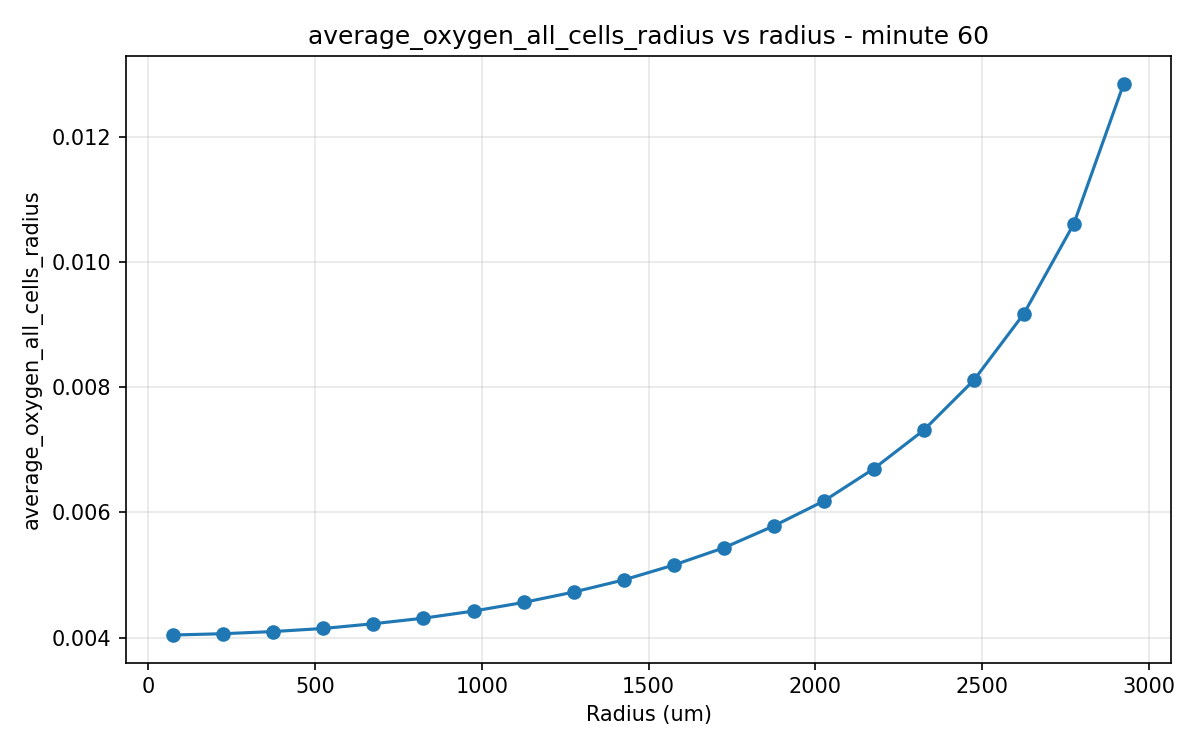
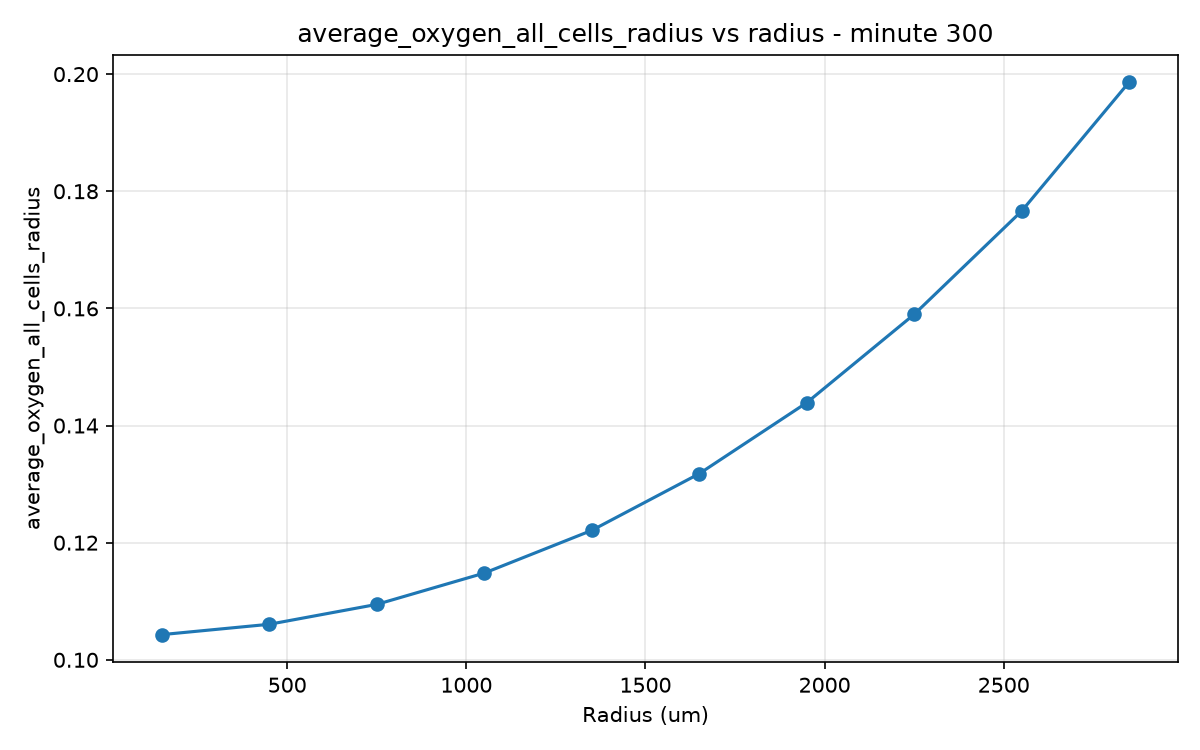
solve bug of exygen increasing with the number of newborn cells

diff --git a/abm_calibration/optimize.py b/abm_calibration/optimize.py
@@ -32,7 +32,7 @@ import pandas as pd
 EXPERIMENT_ID = 1
 SEED = 42
 # You can set the number of trials to 0 to skip the optimization and just load the best result from the database
-NUMBER_OF_TRIALS = 8
+NUMBER_OF_TRIALS = 200000
 # Number of Monte Carlo simulations to run for each trial. Use one for an aproximation of the error with a single montecarlo run
 NUMBER_MONTE_CARLO = 1
 # BioDynaMo directory to execute the comand source thisbdm.sh, you can change it to your own path
@@ -55,20 +55,38 @@ EXPERIMENT_DIR.mkdir(parents=True, exist_ok=True)
 # Function to run the ABM with the given parameters
 def run_ABM(params, seed):
     # Change this: parameter to be optimized in the ABM simulation
-    initial_oxygen_level = params["initial_oxygen_level"]
-    default_oxygen_consumption_tumor_cell = params[
-        "default_oxygen_consumption_tumor_cell"
+    oxygen_reference_level = params[
+        "oxygen_reference_level"
+    ]
+    bounded_space_length = params[
+        "bounded_space_length"
     ]
 
     # Change this configuration for the ABM run
     config = {
         "seed": seed,
         "output_performance_statistics": False,
-        "total_minutes_to_simulate": 1440,
-        "initial_spherical_tumor_radius": 40.0,
-        "treatment": {"0": 50},
-        "initial_oxygen_level": initial_oxygen_level,
-        "default_oxygen_consumption_tumor_cell": default_oxygen_consumption_tumor_cell,
+        "total_minutes_to_simulate": 60,
+        "output_csv_interval": 600,
+        "bounded_space_length": bounded_space_length,
+        "tumor_shape": "cylinder",
+        "output_information_dependent_on_radius": True,
+        "cylindrical_tumor_radius": 3000.0,
+        "max_radius_analysis_csv_dependent_on_radius": 3000.0,
+        "num_radius_intervals": 20,
+        "cylindrical_tumor_height": 100.0,
+        "initial_number_of_cylindrical_tumor_cells": 2800,
+        "oncoprotein_standard_deviation": 0.0,
+        "lateral_oxygen_production_min_z": -75.0,
+        "lateral_oxygen_production_max_z": 75.0,
+        "initial_oxygen_level": 0.0,
+        "oxygen_reference_level": oxygen_reference_level,
+        "diffusion_coefficient_oxygen": 180000.0,
+        "decay_constant_oxygen": 0,
+        "treatment": {
+            "0": 0
+        },
+        "default_oxygen_consumption_tumor_cell": 0
     }
 
     # Save the config parameters for the run to the params.json file
@@ -81,50 +99,79 @@ def run_ABM(params, seed):
 
 # Change This: Function to compute the error between the ABM simulation results and the experimental data
 def compute_error():
-    target = Path(__file__).resolve().parent / "target_data" / "final_data.csv"
-    sim_dir = Path(__file__).resolve().parent.parent / "output" / "final_data.csv"
-
-    if not target.exists():
-        logging.error("Missing target CSV: %s", target)
-        return float("inf")
+    sim_dir = Path(__file__).resolve().parent.parent / "output" / "data_dependent_on_radius_tumor.csv"
 
     if not sim_dir.exists():
         logging.error("Missing simulation CSV: %s", sim_dir)
         return float("inf")
 
-    df_t = pd.read_csv(target, usecols=["total_minutes", "average_oxygen_cancer_cells"])
     df_s = pd.read_csv(
-        sim_dir, usecols=["total_minutes", "average_oxygen_cancer_cells"]
+        sim_dir,
+        usecols=[
+            "total_minutes",
+            "average_oxygen_all_cells_radius_2850_to_3000",
+            "average_oxygen_all_cells_radius_0_to_150",
+        ],
     )
 
-    # Merge the target and simulation dataframes on the "total_minutes" column to align the data for error computation
-    merged = pd.merge(
-        df_t, df_s, on="total_minutes", how="inner", suffixes=("_t", "_s")
-    )
+    # See the value at the minute 60 for the average oxygen level in the simulation data
+    row = df_s[df_s["total_minutes"] == 60].iloc[0]
+    value_border = row["average_oxygen_all_cells_radius_2850_to_3000"]
+    value_border_in_mol_m3 = value_border / 585  # Convert from mmHg to mol/m3
+    target_value_border = 0.2
+    value_center = row["average_oxygen_all_cells_radius_0_to_150"]
+    value_center_in_mol_m3 = value_center / 585  # Convert from mmHg to mol/m3
+    target_value_center = 0.9
 
-    if merged.empty:
-        logging.error("No common minutes between target and simulation")
-        return float("inf")
-
-    # Compute the mean squared error (MSE) between the average oxygen levels in the target and simulation data
-    mse = (
-        (
-            merged["average_oxygen_cancer_cells_s"]
-            - merged["average_oxygen_cancer_cells_t"]
-        )
-        ** 2
-    ).mean()
+   # MSE
+    mse = ((value_border_in_mol_m3 - target_value_border) ** 2 + (value_center_in_mol_m3 - target_value_center) ** 2) / 2 
+    
     return float(mse)
+
+
+    # dafault 
+    # target = Path(__file__).resolve().parent / "target_data" / "final_data.csv"
+    # sim_dir = Path(__file__).resolve().parent.parent / "output" / "final_data.csv"
+
+    # if not target.exists():
+    #     logging.error("Missing target CSV: %s", target)
+    #     return float("inf")
+
+    # if not sim_dir.exists():
+    #     logging.error("Missing simulation CSV: %s", sim_dir)
+    #     return float("inf")
+
+    # df_t = pd.read_csv(target, usecols=["total_minutes", "average_oxygen_cancer_cells"])
+    # df_s = pd.read_csv(
+    #     sim_dir, usecols=["total_minutes", "average_oxygen_cancer_cells"]
+    # )
+
+    # # Merge the target and simulation dataframes on the "total_minutes" column to align the data for error computation
+    # merged = pd.merge(
+    #     df_t, df_s, on="total_minutes", how="inner", suffixes=("_t", "_s")
+    # )
+
+    # if merged.empty:
+    #     logging.error("No common minutes between target and simulation")
+    #     return float("inf")
+
+    # # Compute the mean squared error (MSE) between the average oxygen levels in the target and simulation data
+    # mse = (
+    #     (
+    #         merged["average_oxygen_cancer_cells_s"]
+    #         - merged["average_oxygen_cancer_cells_t"]
+    #     )
+    #     ** 2
+    # ).mean()
+    # return float(mse)
 
 
 # Objective function for the Optuna optimization process
 def objective(trial):
     # Change this: Define the parameters to be optimized and their ranges
     params = {
-        "initial_oxygen_level": trial.suggest_float("initial_oxygen_level", 30, 40),
-        "default_oxygen_consumption_tumor_cell": trial.suggest_float(
-            "default_oxygen_consumption_tumor_cell", 7, 14
-        ),
+        "oxygen_reference_level": trial.suggest_float("oxygen_reference_level", 1200.0, 1400.0, step=10.0),
+        "bounded_space_length": trial.suggest_float("bounded_space_length", 6500.0, 25000.0, step=100.0),        
     }
 
     logging.info(f"Trial {trial.number} | params={params}")
@@ -189,6 +236,13 @@ if __name__ == "__main__":
 
         df = study.trials_dataframe()
         df.to_csv(EXPERIMENT_DIR / "optuna_results.csv", index=False, mode="w")
+        # for t in study.trials:
+        #     print(
+        #         f"Trial {t.number:2d} | "
+        #         f"value={t.value:.6f} | "
+        #         f"params={t.params} | "
+        #         f"state={t.state}"
+        #     )
 
     finally:
         # Restore the original content of the bdm.toml and params.json files always, even if an error occurs during the optimization process

diff --git a/src/params/hyperparams.cc b/src/params/hyperparams.cc
@@ -136,8 +136,8 @@ void SimParam::LoadParams(const std::string& filename) {
 
   load_double("lateral_oxygen_production_min_z",
               lateral_oxygen_production_min_z);
-  load_double("lateral_oxygen_production_max_z",
-              lateral_oxygen_production_max_z);
+
+  load_bool("diffuse_on_z_axis", diffuse_on_z_axis);
 
   load_double("diffusion_coefficient_oxygen", diffusion_coefficient_oxygen);
   load_double("decay_constant_oxygen", decay_constant_oxygen);
@@ -147,6 +147,19 @@ void SimParam::LoadParams(const std::string& filename) {
               decay_constant_immunostimulatory_factor);
   load_double("oxygen_reference_level", oxygen_reference_level);
   load_double("initial_oxygen_level", initial_oxygen_level);
+
+  if (jfile.contains("diffuse_on_z_axis")) {
+    diffuse_on_z_axis = jfile["diffuse_on_z_axis"].get<bool>();
+  } else {
+    // if the tumor shape is cylindrical it should be set to false, otherwise it should be set to true
+    if (tumor_shape == "cylinder") {
+      // NOLINTNEXTLINE(cppcoreguidelines-avoid-magic-numbers,readability-magic-numbers)
+      diffuse_on_z_axis = false;
+    } else {
+      // NOLINTNEXTLINE(cppcoreguidelines-avoid-magic-numbers,readability-magic-numbers)
+      diffuse_on_z_axis = true;
+    }
+  }
 
   load_double("cell_repulsion_between_tumor_tumor",
               cell_repulsion_between_tumor_tumor);
@@ -410,6 +423,8 @@ void SimParam::PrintParams() const {
             << lateral_oxygen_production_min_z << "\n";
   std::cout << "Maximum z-coordinate for lateral oxygen production (micrometers): "
             << lateral_oxygen_production_max_z << "\n";
+  std::cout << "Whether to diffuse Chemicals on the z-axis: "
+            << (diffuse_on_z_axis ? "true" : "false") << "\n";
   std::cout << "Diffusion coefficient of oxygen (μm²/min): "
             << diffusion_coefficient_oxygen << "\n";
   std::cout << "Decay constant of oxygen (min⁻¹): " << decay_constant_oxygen

diff --git a/src/utils/utils_aux.cc b/src/utils/utils_aux.cc
@@ -169,16 +169,17 @@ AnalyzeTumor(real_t inner_radius_considered, real_t outer_radius_considered) {
       return;
     }
 
-    // Accumulate oxygen level for average calculation
-    acumulator_oxygen_all_cells += oxygen_dgrid->GetValue(pos);
-
     // The agent is within the considered radius range, analyze it
     if (const auto* tumor_cell = dynamic_cast<const TumorCell*>(agent)) {
+
+      // Accumulate oxygen level for average calculation
+      acumulator_oxygen_all_cells += oxygen_dgrid->GetValue(pos);
 
       total_num_tumor_cells++;
 
       // Accumulate oxygen level for average calculation
       acumulator_oxygen_cancer_cells += oxygen_dgrid->GetValue(pos);
+
 
       // computing tumor radius
       if (dist_sq > max_dist_sq) {
@@ -212,8 +213,12 @@ AnalyzeTumor(real_t inner_radius_considered, real_t outer_radius_considered) {
       }
     } else if (const auto* cart_cell = dynamic_cast<const CarTCell*>(agent)) {
       if (cart_cell->GetState() == CarTCellState::kAlive) {
+        // Accumulate oxygen level for average calculation
+        acumulator_oxygen_all_cells += oxygen_dgrid->GetValue(pos);
         num_alive_cart++;
       } else if (cart_cell->GetState() == CarTCellState::kApoptotic) {
+        // Accumulate oxygen level for average calculation
+        acumulator_oxygen_all_cells += oxygen_dgrid->GetValue(pos);
         //Dead CART cell
         num_dead_cart++;
       }

diff --git a/src/params/hyperparams.h b/src/params/hyperparams.h
@@ -171,6 +171,10 @@ struct SimParam : public ParamGroup {
   /// to also act as an oxygen-producing Dirichlet boundary.
   // NOLINTNEXTLINE(cppcoreguidelines-avoid-magic-numbers,readability-magic-numbers)
   real_t lateral_oxygen_production_max_z = 500.0;
+  /// Wether the Thomas algortithm should also diffuse the Chemicals in the z-axis or not. 
+  /// If false, the diffusion will only be done in the x and y axis.
+  // NOLINTNEXTLINE(cppcoreguidelines-avoid-magic-numbers,readability-magic-numbers)
+  bool diffuse_on_z_axis = true;
   /// Diffusion coefficient of oxygen in μm²/min
   // NOLINTNEXTLINE(cppcoreguidelines-avoid-magic-numbers,readability-magic-numbers)
   real_t diffusion_coefficient_oxygen = 100000;

diff --git a/src/diffusion/diffusion_thomas_algorithm.cc b/src/diffusion/diffusion_thomas_algorithm.cc
@@ -208,9 +208,11 @@ void DiffusionThomasAlgorithm::DiffuseChemical() {
   SolveDirectionThomas(1);
   ApplyBoundaryConditionsIfNeeded();
 
-  // Solve for Z-direction (direction = 2)
-  SolveDirectionThomas(2);
-  ApplyBoundaryConditionsIfNeeded();
+  // Solve for Z-direction (direction = 2) if diffuse_on_z_axis is true
+  if (Simulation::GetActive()->GetParam()->Get<SimParam>()->diffuse_on_z_axis) {
+    SolveDirectionThomas(2);
+    ApplyBoundaryConditionsIfNeeded();
+  }
 
   // Change of concentration levels because of agents
   ComputeConsumptionsSecretions();

diff --git a/draft/analysis_radius_oxygen.py b/draft/analysis_radius_oxygen.py
@@ -4,7 +4,7 @@ import matplotlib.pyplot as plt
 
 # ---- settings ----
 CSV_PATH = "./output/data_dependent_on_radius_tumor.csv"
-MINUTE = 60  # change this to the minute you want to plot
+MINUTE = 300 # change this to the minute you want to plot
 ATTRIBUTE = "average_oxygen_all_cells_radius"  # change this to the attribute you want to plot
 DIVIDING_FACTOR = 585  # change this to the factor you want to divide by. Use 525 to pass from mmHg to mol/m3
 # other examples: "average_oncoprotein_radius", "average_oxygen_cancer_cells_radius",
